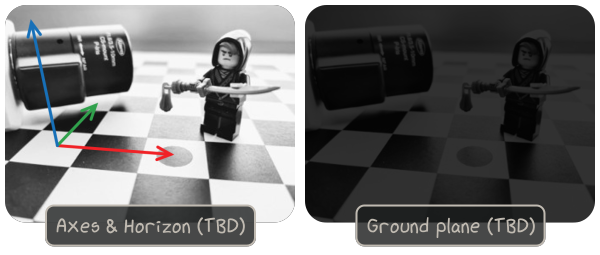
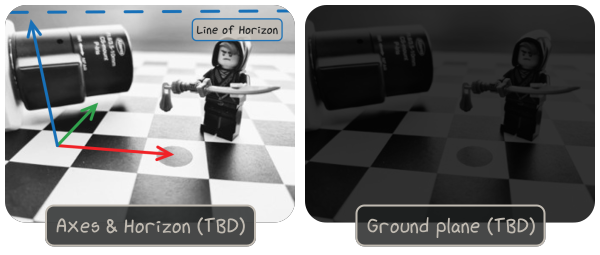
add bindings for draw_horizon_line

diff --git a/examples/rtd-examples-python/rtd_demo_images/pinhole.py b/examples/rtd-examples-python/rtd_demo_images/pinhole.py
@@ -34,15 +34,19 @@ def _overlay_axes(painter, K, R, t):
 def _overlay_horizon(painter, K, R, t):
     """Draws the approximated line of horizon."""
     line_style = viren2d.LineStyle(
-        width=7, color=viren2d.axis_color('z'), dash_pattern=[20, 30],
+        width=7, color=viren2d.axis_color('z'), dash_pattern=[40, 50],
         cap='round')
     horizon_from, horizon_to = painter.draw_horizon_line(
         K=K, R=R, t=t, line_style=line_style)
     # Add a label
-    text_style = viren2d.TextStyle(family='xkcd', size=21, color='#1a1c1d')
+    text_style = viren2d.TextStyle(family='xkcd', size=29, color='#1a1c1d')
+    line_style.width = 3
+    line_style.dash_pattern = []
     painter.draw_text_box(
-        ['Line of Horizon'], position=(horizon_from + horizon_to) / 2,
-        text_style=text_style, fill_color='ivory!90')
+        ['Line of Horizon'],
+        position=(horizon_from + horizon_to) * 0.8 + (0, 8),
+        anchor='top', text_style=text_style, padding=(10, 6),
+        line_style=line_style, fill_color='#c0bab1c0')
 
 
 def demo_pinhole():

diff --git a/docs/source/tutorial/draw-3d-calibration.rst b/docs/source/tutorial/draw-3d-calibration.rst
@@ -9,11 +9,9 @@ Camera Geometry
 To inspect the results of a pinhole camera calibration, ``viren2d`` provides
 the following utilities:
 
-* Overlaying coordinate system axes via :func:`~viren2d.Painter.draw_xyz_axes`.
+* Overlay coordinate system axes via :func:`~viren2d.Painter.draw_xyz_axes`.
 
-* TODO ground plane
-
-* TODO horizon
+* Estimate and overlay the line of horizon via :func:`~viren2d.Painter.draw_horizon_line`.
 
 
 .. image:: ../images/pinhole-camera.png
@@ -21,10 +19,10 @@ the following utilities:
    :alt: Pinhole camera visualizations
    :align: center
 
-This visualization has been created with the following Python code:
+Corresponding Python example code:
 
 .. literalinclude:: ../../../examples/rtd-examples-python/rtd_demo_images/pinhole.py
    :language: python
-   :emphasize-lines: 24-26
+   :emphasize-lines: 24-26, 34-35
    :lines: 6-
    :linenos:
